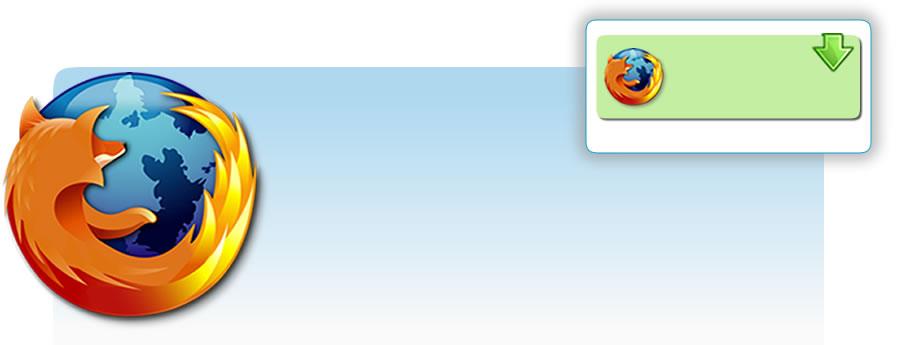
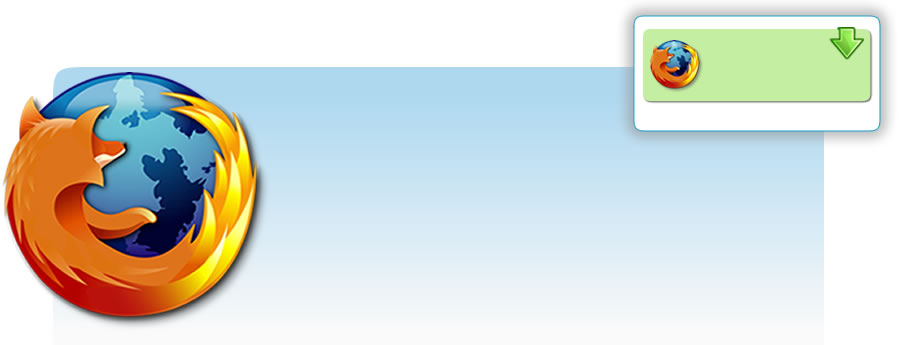
titleblock resize download block (thanks tobby)

Changed region(s): [[0.6222, 0.029, 0.9956, 0.4928]]

diff --git a/style.css b/style.css
@@ -83,7 +83,7 @@ img {
 #titleblock #title-name, #titleblock #title-name-edit input {
 	position: absolute;
 	top: 87px; left: 343px;
-	height: 40px; width: 230px;
+	height: 40px; width: 270px;
 	font-size: 36px; line-height: 40px;
 	white-space: nowrap;
 }
@@ -116,18 +116,17 @@ img {
 
 #titleblock .download {
 	position: absolute;
-	top: 37px; left: 600px;
-	width: 260px; height: 85px;
-	border: 1px dashed #999999;
+	top: 28px; left: 640px;
+	width: 230px; height: 70px;
 }
 #titleblock .download p {
 	margin: 0; padding: 0;
 }
 #titleblock .download .link {
 	position: absolute;
-	top: 15px; left: 70px;
-	height: 30px; width: 148px;
-	font-size: 30px; line-height: 30px;
+	top: 15px; left: 65px;
+	height: 26px; width: 148px;
+	font-size: 26px; line-height: 26px;
 }
 
 #titleblock .download .link a {
@@ -141,19 +140,18 @@ img {
 
 #titleblock .download .version {
 	position: absolute;
-	top: 55px; left: 70px;
+	top: 50px; left: 65px;
 	height: 15px; width: 180px;
 	font-size: 15px; line-height: 15px;
 	white-space: nowrap;
 }
 #titleblock .count {
 	position: absolute;
-	top: 110px; left: 600px;
-	width: 260px; height: 16px;
-	font-size: 16px; line-height: 16px;
+	top: 94px; left: 640px;
+	width: 230px; height: 14px;
+	font-size: 14px; line-height: 14px;
 	text-align: right;
 	white-space: nowrap;
-	border: 1px dashed #999999;
 }
 
 #titleblock .desc {
